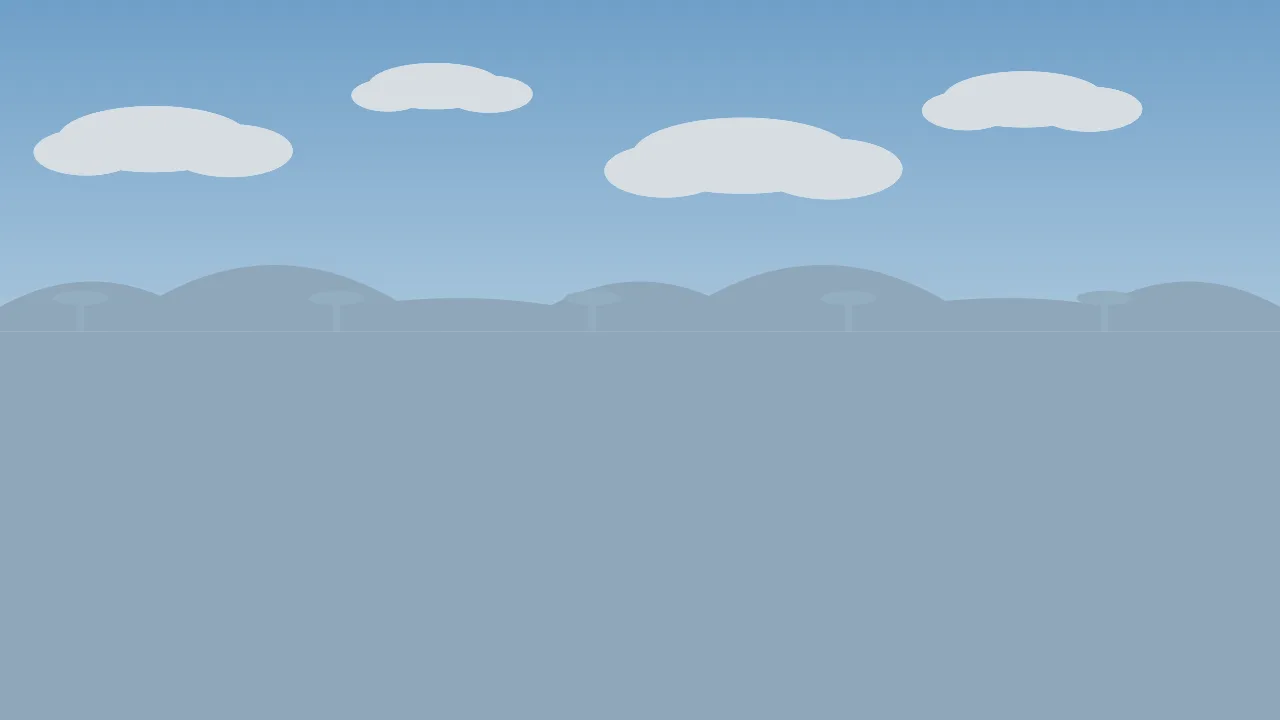
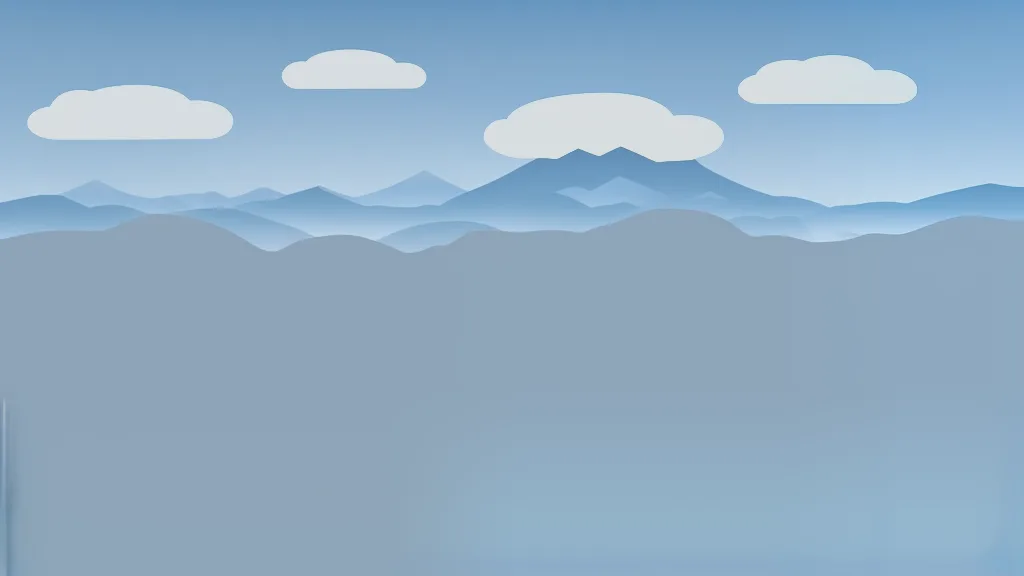
Два ледяных неба через img2img; ночь с сиянием — полосой
Первая попытка падала с WinError 233 из-за занятой видеопамяти, а не из-за
промпта: на свободной карте оба неба нарисовались за 13 и 9 секунд. Это
записано в README — отказ выглядит как ошибка генерации и уводит не туда.

diff --git a/sw.js b/sw.js
@@ -21,7 +21,7 @@
 // меняет, и перекачивать нечего.
 //
 // Разбор: docs/offline-and-build.md
-const CACHE = 'run-v141';
+const CACHE = 'run-v142';
 
 /* Имя задаётся ОТПЕЧАТКОМ содержимого vendor/, а не номером сборки, и это и
    есть весь смысл разделения: то же имя — те же байты по построению, значит

diff --git a/js/version.js b/js/version.js
@@ -1,3 +1,3 @@
 // Генерируется tools/make-sw.mjs вместе с номером кэша. Руками не править.
-export const VERSION = 'run-v141';
-export const BUILT_AT = '2026-10-16 20:59';
+export const VERSION = 'run-v142';
+export const BUILT_AT = '2026-10-16 21:05';

diff --git a/docs/status.md b/docs/status.md
@@ -56,12 +56,18 @@
 сливался бы в пятно, и скорость перестала бы читаться), а пятно под кольцом
 совпадало с глубиной обрыва и читалось бы дыркой. Глаз не поймал бы ни одного.
 
-**Два светлых ледяных неба пока СОБРАНЫ ИЗ ПОЛОС, а не нейросетью.** Прогон
-Easy Diffusion не состоялся: на GPU было свободно 1.7 ГБ из 12.9 — VRAM держали
-запущенные на машине приложения, и рендер падал с `WinError 233`. Растры из
-полос работают и проходят оба набора (так же собрана ночь холмов), но мягких
-облаков у них нет. Повторить можно в любой момент на свободном GPU, правок кода
-для этого не нужно — ритуал записан в `README.md`.
+**Два светлых ледяных неба прошли через Easy Diffusion**, как и дневные зоны
+холмов: img2img от init-полосы, `--strength 0.55`, 28 шагов. Горизонт сошёлся с
+полом в обоих — проверено кадром. Ночь с сиянием собрана БЕЗ нейросети, прямо
+из полосы: звёзды она размазывает, и ровно по той же причине так собрана ночь
+холмов.
+
+**Первая попытка прогона сорвалась, и причина стоит памяти:** на GPU было
+свободно 1.7 ГБ из 12.9 — VRAM держали посторонние запущенные приложения, —
+и рендер падал с `[WinError 233]`, то есть отказом канала, а не ошибкой
+промпта. На свободной видеокарте оба неба нарисовались за 13 и 9 секунд. Если
+генерация однажды упадёт так же, смотреть надо на `nvidia-smi`, а не на
+параметры запуска.
 
 **Что из этого проверено машинно, а что нет.** Тестами закрыты лестница
 (границы, монотонность, светлота полос), реестр миров, сторожи полей профиля и

diff --git a/README.md b/README.md
@@ -43,6 +43,25 @@ node tools/ed-generate.mjs --init tools/init/band-sunsetDunes.png --strength 0.5
 пиксели обратно вверх — на нынешнем ночном растре максимум 0.347 при заданных
 0.30.
 
+Ледяной мир собран тем же путём. Две светлые зоны идут через img2img:
+
+```
+# в браузере http://localhost:8099/tools/frame.html?band=iceMorning
+#   -> await saveFrame('tools/init/band-iceMorning.png')
+node tools/ed-generate.mjs --init tools/init/band-iceMorning.png --strength 0.55   --w 1024 --h 576 --steps 28 --out tools/painted/sky-ice-morning.png   --prompt "frosty winter morning sky over distant snowy mountain ridge, soft pale blue and rose clouds, flat vector poster style, clean horizon line, no text"
+# затем в tools/frame.html:
+#   await toWebp('tools/painted/sky-ice-morning.png', 'assets/sky-ice-morning.webp',
+#                0.82, skyClamp('iceMorning'))
+```
+
+Снежное поле — так же, с `band=snowField`, `sky-snow.webp` и промптом про
+пасмурное зимнее небо. А ночь с сиянием — БЕЗ нейросети, прямо из полосы.
+
+**Если генерация падает с `[WinError 233]`, смотреть надо на видеопамять, а не
+на промпт.** Рендер-процесс Easy Diffusion умирает молча, когда VRAM занята
+чужими приложениями: `nvidia-smi --query-gpu=memory.free --format=csv` покажет
+правду за секунду. На свободной RTX 3060 небо рисуется за 10–13 секунд.
+
 **Ночная зона собирается БЕЗ Easy Diffusion** — прямо из полосы, без img2img:
 
 ```

diff --git a/docs/sky-and-art.md b/docs/sky-and-art.md
@@ -18,7 +18,10 @@
 офлайн-кэш. Поэтому зона и её растр обязаны появляться одним изменением, и
 растр обязан получаться БЕЗ нейросети — иначе новый мир нельзя довести до
 зелёного без запущенного стороннего сервера. Ледяной мир так и собран: сперва
-три растра прямо из полос, потом Easy Diffusion по светлым зонам.
+три растра прямо из полос, потом Easy Diffusion по двум светлым зонам. Порядок
+этот стоит сохранить и для следующих миров: полоса делает мир играбельным и
+набор зелёным в тот же день, а нейросеть улучшает небо когда угодно потом, без
+единой правки кода.
 
 **Заливка идёт только там, где растр неба не достаёт.** `skyGaps()` в
 `js/view.js` считает, куда ляжет растр, и полноэкранных заливок перед ним не
